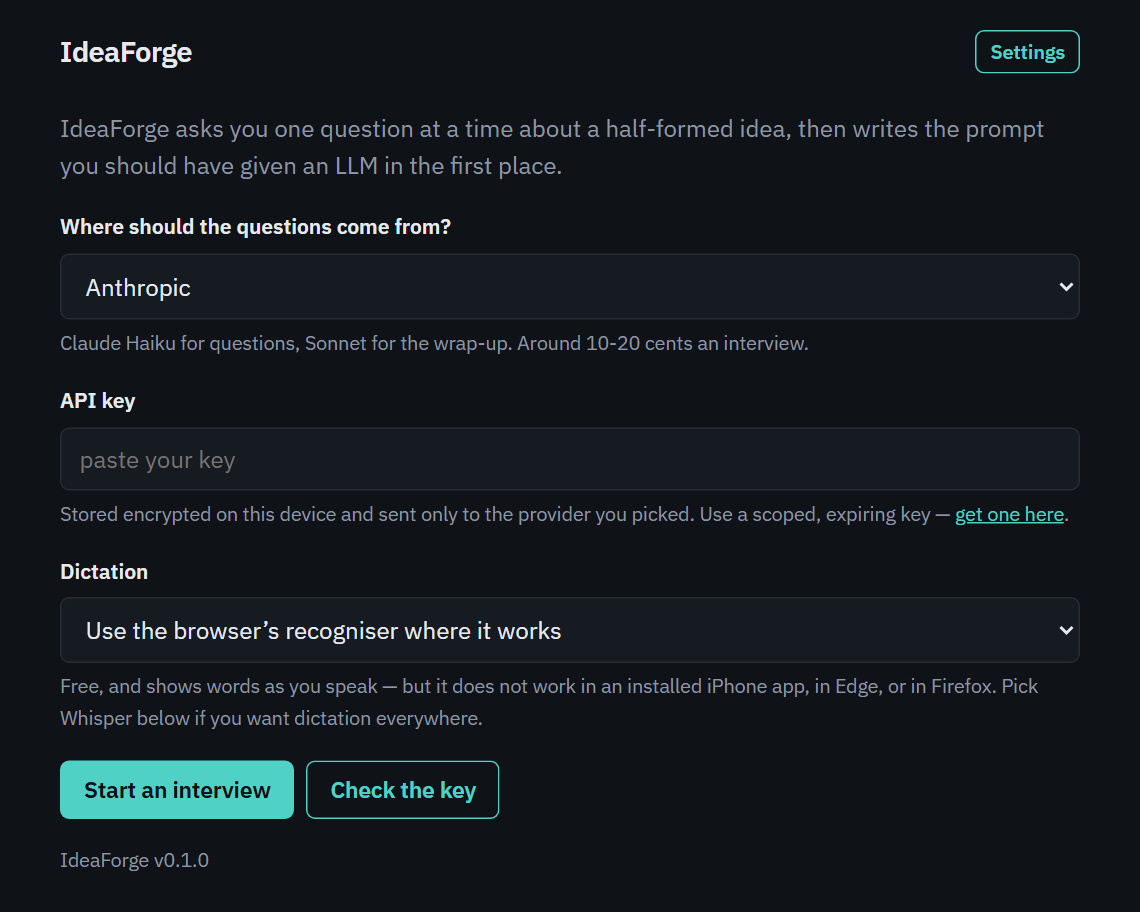
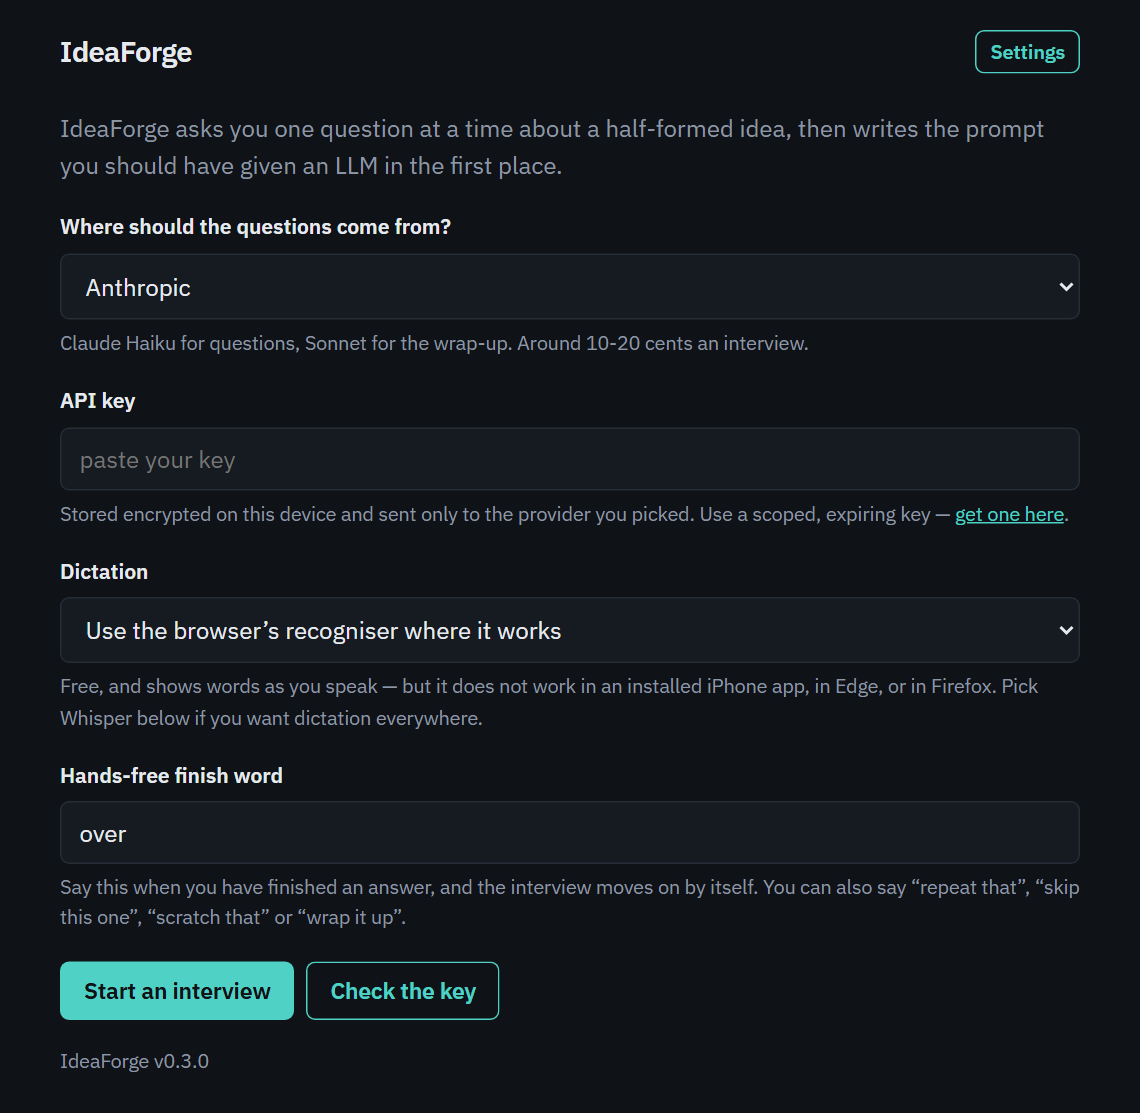
Document driving mode where the next person will look for it
Five files, each with a different job, and linked rather than copied because a
rule written down twice is a rule that will disagree with itself.

README.md — how to use it. The finish word, the four spoken commands, the
voice wrap-up, and the two honest limits: "scratch that" cannot undo an answer
already submitted, because the interviewer has read it and pretending otherwise
would be a fiction; and an installed iPhone app needs a transcription key.

CLAUDE.md — the rules that fail silently. The non-dead-ending invariant stated
so it is falsifiable. Why the trigger is terminal-only and a command must be a
whole utterance. Why a command must carry empty text, or RE_REFUSAL records it
as a refusal and caps the dimension. Why settleMs is doing two jobs at once.
And that DRIVING_GATE's numbers are guesses whose direction is tested and whose
values are not.

docs/ARCHITECTURE.md — the map. Driving mode's recovery joins the "when a turn
fails" table, a spoken command becomes a named extension seam, and the note
about app.js having no seams is corrected now that the sequencing has left it.

AGENTS.md — how to prove it. The hands-free validator leg, and two traps the
work earned: a fake that is too forgiving passes against broken code, and
window.speechSynthesis cannot be assigned while SpeechRecognition can. Plus
BROWSER_CHECK_REQUIRED=1 promoted out of a footnote, because without it a
missing Chrome is a skip that exits 0 and an unattended run reports green
[…]

diff --git a/AGENTS.md b/AGENTS.md
@@ -6,10 +6,13 @@ and the invariants that matter; this file covers *how to iterate on it and prove
 ## The short version
 
 ```sh
-npm test              # ~1s   — purity lint + 126 unit tests. Run constantly.
-npm run test:browser  # ~25s  — 58 checks in headless Chrome. Run before you push.
-npm run test:all      # both
-npm run screenshots   # ~35s  — only when the UI or the README changes
+npm test                            # ~1s  — purity lint + the unit suite. Run constantly.
+BROWSER_CHECK_REQUIRED=1 npm run test:browser
+                                    # ~90s — headless Chrome. Run before you push.
+npm run test:all                    # both
+npm run screenshots                 # ~35s — only when the UI or the README changes
+VALIDATE_MODE=handsfree \
+  npm run validate:local            # a real model, driven by a scripted voice
 ```
 
 If you change anything under `src/voice/`, `src/store/`, `src/ui/`, `index.html`, `sw.js` or
@@ -137,6 +140,24 @@ than beside either.
 Before trusting a green run, make it fail on purpose. Point `OLLAMA_URL` at a dead port, or
 name a model that is not installed. A validator that cannot fail is not a validator.
 
+**6a · The same run, driven by voice** — `VALIDATE_MODE=handsfree npm run validate:local`
+
+The recogniser and the synthesiser are scripted; the model is still the real one. What is
+faked is how the answers arrive, never what the model does with them. Five extra claims, and
+the one that matters is the hands-free counterpart of the POST count: **the harness never
+wrote to `#answer` and never clicked `#b-send`**, asserted from a counter rather than a
+comment.
+
+Two things worth knowing before trusting it. Only one claim — that the trigger word ended
+the answer rather than joining it — actually fails when the trigger is broken: the deaf
+watchdog rescues the capture either way, so every answer still arrives, just slower and with
+the word left on the end. And `VALIDATE_MODE=both` does not exist; run the command twice.
+
+The fakes reach the page through `Page.addScriptToEvaluateOnNewDocument`, which runs before
+the app's modules and outside the page CSP — the same trick `screenshots.mjs` uses. They are
+read off disk rather than fetched, so this still works against a built container that serves
+no `/test/`.
+
 **6b · Against a paid provider** — costs money and needs a key, so it is the rung after
 that. `npm run serve`, open `http://127.0.0.1:8765`, paste a key. Groq's free tier is the
 cheapest way to exercise a hosted model. A full interview on Haiku with Groq dictation
@@ -145,6 +166,11 @@ not be.
 
 **7 · CI** — six unit legs (Linux/Windows/macOS × Node 22/24) plus the browser job. Windows
 is not decoration: two of this repo's toolchain bugs were Windows-only path handling.
+
+**`BROWSER_CHECK_REQUIRED=1` is not optional for an agent.** Without it a missing Chrome is
+a **skip that exits 0** (`browser-check.mjs`), so an unattended run reports green having
+checked nothing. It is the easiest false green in this repo, and CI sets it for the same
+reason.
 
 ## Traps that will cost you an hour
 
@@ -228,6 +254,20 @@ Every one of these has already bitten someone here.
   dropped them silently, coverage never rose, and the interview ran to the hard ceiling
   before reporting 0%. If you see coverage stuck at zero against a new model, look there
   first.
+- **A fake that is too forgiving passes against broken code.** The scripted recogniser in
+  `test/browser/fixtures/fake-voice.js` reproduces `resultIndex`, a cumulative `results` list
+  and `results[i][0].transcript` exactly, because a flat `{results:[{transcript}]}` would pass
+  happily against an accumulator that was counting clauses twice — which is a bug it found.
+  It also feeds an utterance only when `continuous` is true, so `probeWebSpeech` cannot eat
+  one, and that pins those flag assignments as a side effect.
+- **`window.speechSynthesis` cannot be assigned.** It is a readonly WebIDL attribute and
+  module code is strict, so `win.speechSynthesis = fake` throws `TypeError`. Use
+  `Object.defineProperty(win, 'speechSynthesis', { value, configurable: true })`.
+  `SpeechRecognition` and `SpeechSynthesisUtterance` *are* assignable, and that asymmetry is
+  easy to lose an hour to.
+- **A scripted model that claims no coverage triggers the exhaustion exit.** `zeroGainStreak`
+  reaches two after two turns, the engine offers the wrap-up — correctly — and the offer then
+  consumes the next scripted utterance as its yes/no. It looks exactly like a broken loop.
 - **`AbortSignal.timeout` does not hold Node's event loop open.** A test whose only pending
   work is that timer never sees it fire, and reports "promise resolution is still pending"
   instead of the timeout it was checking for. Hold the loop with an interval. Browsers have

diff --git a/CLAUDE.md b/CLAUDE.md
@@ -116,6 +116,41 @@ tested without a microphone. Its noise floor is a running minimum, which works b
 speech has gaps at word boundaries — that is what lets a recording opening mid-sentence
 correct itself rather than staying deaf.
 
+## Driving mode: the rules that fail silently
+
+The hands-free loop lives in `src/runtime/drive.js`, with the matching in
+`src/core/driving.js`. Both are platform-free and lint-enforced to stay that way, because
+the loop's correctness is about *sequencing* and sequencing tested through a browser is slow
+enough that the eighth failure case never gets written.
+
+- **The invariant is that it never comes to rest waiting for a tap.** An empty capture, a
+  recogniser error and a recogniser that died all `continue`. Adding a `break` or a `return`
+  to any catch in `drive.js` is how driving mode starts asking a driver to look at the
+  screen — which is what the loop it replaced did, in two places. The failure mode is a
+  *skipped question*, not a stopped app.
+- **The trigger word is terminal-only, and a command must be the whole utterance.** "Over"
+  is an ordinary word — *over budget*, *over the years* — but almost never the last one.
+  Matched anywhere it truncates answers invisibly. A command matched *inside* a sentence eats
+  the whole answer, so `"I'd skip this one if I could"` has to stay an answer.
+- **`matchCommand` returns empty text for a command**, which is what makes it structurally
+  impossible for one to reach `submitAnswer` — where `RE_REFUSAL` in `engine.js` already
+  matches "skip this" and would cap that dimension's coverage. The command would appear to
+  work and quietly damage the interview.
+- **`settleMs` is doing two jobs.** A trigger seen in an interim only arms a timer: it lets
+  "we went over budget" extend itself and prove it was not the end, *and* it gives the engine
+  time to finalise, because `stop()` resolves with settled finals only and would otherwise
+  discard the clause the trigger appeared in. The two probe cases either side of it in
+  `test/browser/driving.browser.mjs` are the sharpest tests in the suite.
+- **`speak.js` caps its own wait**, so anything long must go through `speechChunks`. A
+  six-hundred-word prompt read as one utterance is abandoned partway through by Chrome with
+  no error at all.
+- **The deaf watchdog in `webspeech.js` resolves, never rejects.** An engine that emits one
+  interim and then goes silent used to leave the promise unsettled for ever. It is the same
+  installed-iOS failure `probeWebSpeech` guards the *start* against, arriving later than the
+  probe can see.
+- **`DRIVING_GATE` numbers are first guesses against an imagined car.** The tests assert the
+  *direction* of each change from `DEFAULTS`, never the value. Only a real drive settles them.
+
 ## Providers: browser CORS facts, verified against the live APIs
 
 - **Anthropic**: the preflight only succeeds if `anthropic-dangerous-direct-browser-access`

diff --git a/README.md b/README.md
@@ -297,9 +297,40 @@ running the app locally too is still the path of least resistance.
 ## Talking instead of typing
 
 Tap **Answer out loud** to dictate one answer, or turn on **hands-free** and the app reads
-each question aloud, listens, and moves on when you stop talking. Dictated answers are
-marked as such: the interviewer is told to read them for intent and never to ask you to
-clarify a mis-transcription, and the export records which answers you spoke.
+each question aloud, listens, and moves on. Dictated answers are marked as such: the
+interviewer is told to read them for intent and never to ask you to clarify a
+mis-transcription, and the export records which answers you spoke.
+
+### Doing a whole interview without touching the phone
+
+Hands-free is built for a commute. You say **&ldquo;over&rdquo;** when you have finished an
+answer, and the interview moves on by itself &mdash; a pause does not end it, so you can stop
+mid-sentence to change lane and pick the thought back up. Four other things you can say:
+
+| Say | And it |
+|---|---|
+| &ldquo;repeat that&rdquo; | reads the question again |
+| &ldquo;skip this one&rdquo; | moves on without answering |
+| &ldquo;scratch that&rdquo; | throws away what you just said and listens again |
+| &ldquo;wrap it up&rdquo; | finishes the interview and reads the prompt back to you |
+
+When there is enough material the app asks whether to write it up, and you answer yes or
+&ldquo;keep going&rdquo;. It reads the finished prompt aloud; the markdown is waiting on
+screen when you park.
+
+The finish word is a setting, because how often you say &ldquo;over&rdquo; in the middle of a
+sentence depends entirely on what your ideas are about. Pick something you rarely say; the
+app will warn you if you choose something it thinks will cut you off.
+
+**It will not stop and wait for you.** If it mishears, it says so and listens again; if it
+still cannot hear you it re-reads the question, and after that it moves on to the next one
+rather than stranding the interview. Only after several questions in a row have gone that way
+does it give up, and it tells you when it does.
+
+Two honest limits. &ldquo;Scratch that&rdquo; can only discard an answer you have not
+finished &mdash; once it is submitted the interviewer has already read it, so undoing it
+would be a fiction. And on an installed iPhone app this needs a transcription key, for the
+reason below.
 
 There are two dictation backends — the browser's own recogniser, which is free and shows
 words as you speak, and Whisper via Groq or OpenAI, which costs about a penny an interview

diff --git a/docs/ARCHITECTURE.md b/docs/ARCHITECTURE.md
@@ -88,6 +88,7 @@ property most worth not breaking: **a failure never dead-ends an interview.**
 | There is no provider at all | `runTurn`'s null-provider branch | Checklist mode, no calls made |
 | A call was interrupted | `resumeTurn` in `src/runtime/turn.js` | The interview picks up where it stopped |
 | The wrap-up call failed | `runSynthesis` in `src/runtime/synthesize.js`, then `buildExport` in `src/core/markdown.js` | The whole document, minus the refined prompt |
+| Nothing usable was heard, hands-free | `createDriveLoop` in `src/runtime/drive.js` | It says so, listens again, and eventually moves on |
 
 Two subtleties inside that table. In `resumeTurn`, the turn id is the *correctness*
 guarantee — it is what stops the same turn being created twice — while the prompt hash is
@@ -120,14 +121,21 @@ you hit all three.
 `index.html` — the select is not data-driven. Read the voice section of
 [CLAUDE.md](../CLAUDE.md) first: this is the subsystem where feature detection lies.
 
+**A spoken command.** A phrase list in `COMMANDS` in `src/core/driving.js`, and a branch in
+`createDriveLoop` in `src/runtime/drive.js`. Nothing else: the loop's `io` is what turns the
+branch into an effect, so a new command is testable in `node --test` before the UI knows it
+exists. The split mirrors `core/synthesis.js` ↔ `runtime/synthesize.js` — pure material in
+`core/`, the orchestration that consumes it in `runtime/`.
+
 ## The costs we have accepted
 
 Each of these is a deliberate debt with a trigger for paying it down, not an oversight.
 
 **`src/ui/app.js` has no seams inside it.** One god `state` object, a flat map of element
 ids, and `show()` enumerating the panels by name. It is well sectioned and holds no
-business logic — every classification, coverage and wrap decision lives in `core/` — but it
-is the one file two people cannot comfortably work in at once.
+business logic — every classification, coverage and wrap decision lives in `core/`, and the
+hands-free sequencing now lives in `src/runtime/drive.js` — but it is still the one file two
+people cannot comfortably work in at once.
 *Trigger: a fourth panel, or a second contributor working in it concurrently.*
 
 **One interview profile is assumed throughout.** `DIMENSIONS`, `SEED_QUESTION` and the two

diff --git a/CONTRIBUTING.md b/CONTRIBUTING.md
@@ -96,6 +96,11 @@ taken on. Worth ten minutes before a first change of any size.
 - **Voice answers are a distinct provenance.** `source: 'voice'` exempts an answer from the
   terse and dodge thresholds because dictation rambles. Chip and unedited-draft answers are
   capped at `partial` because they are the model's words, not the user's.
+- **Hands-free must never come to rest waiting for a tap.** `src/runtime/drive.js` recovers
+  from an empty capture, a recogniser error and a dead recogniser by talking to the user, and
+  the one test that matters asserts literally that no recovery mentions tapping or typing.
+  A new spoken command is a phrase list in `src/core/driving.js` plus a branch in the loop —
+  and it must yield empty answer text, or `RE_REFUSAL` will record the command as a refusal.
 
 ## Tests
 
